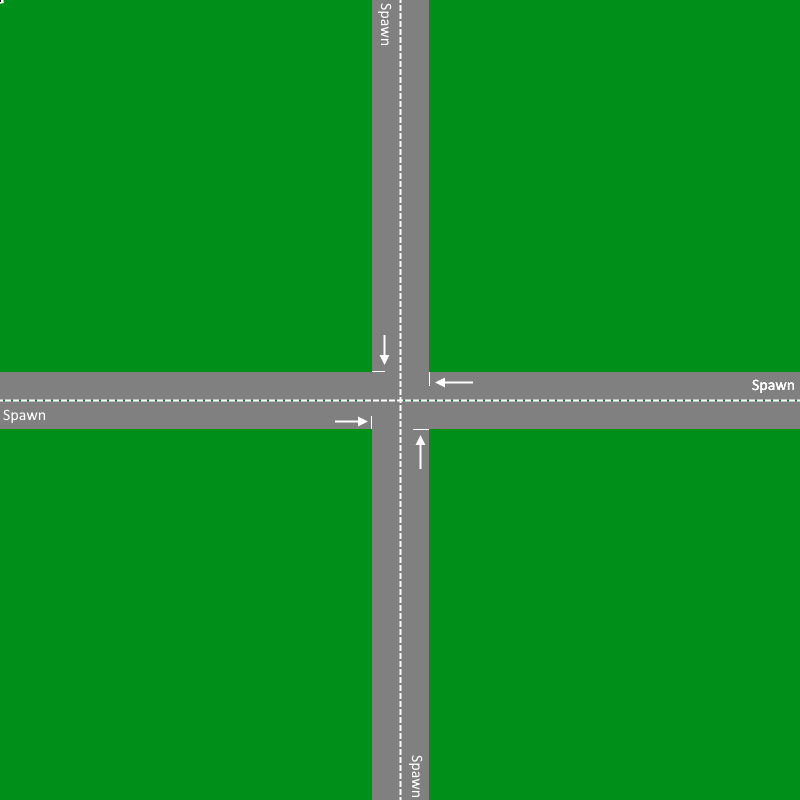
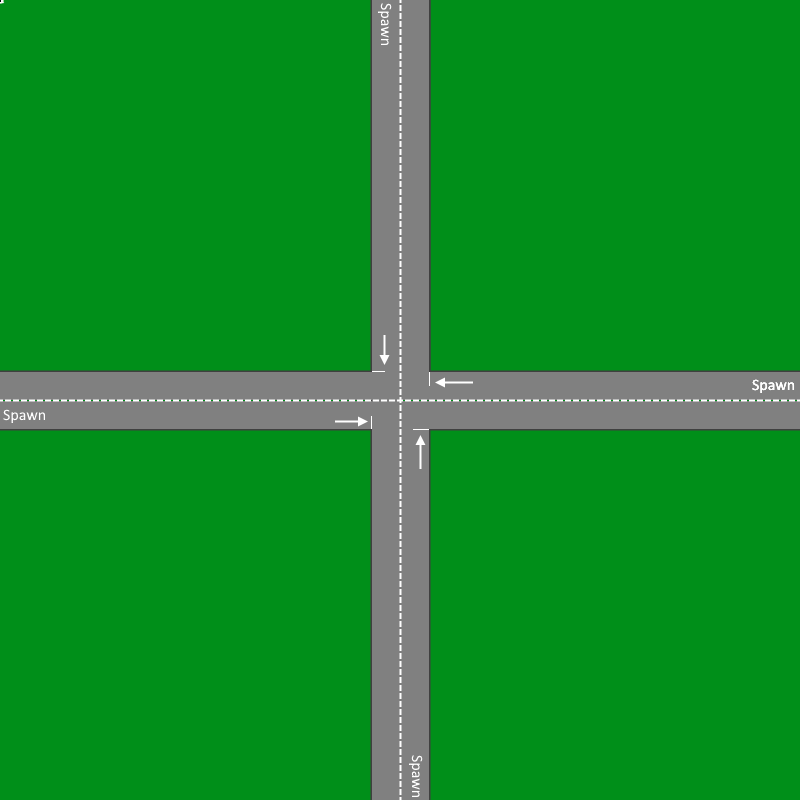
Обучаюсь дравать спрайты

diff --git a/Game.h b/Game.h
@@ -1,9 +1,10 @@
 #include "SFML/Graphics.hpp"
 #include <iostream>
 #include <string>
+#include <list>
 
-const int window_w = 1280;
-const int window_h = 720;
+const int window_w = 800;
+const int window_h = 800;
 const int framerame_limit = 60;
 
 void game();
@@ -14,20 +15,24 @@ private:
 	
 	class Cars;
 	class Traffic_Lights;
-
+	sf::Texture texture;
+	sf::Sprite sprite;
 public:
 	CrossRoad();
 	~CrossRoad();
-	void update() {
+	sf::Sprite update() {
+		texture.loadFromFile("img/Crossroad(1).png");
 
+		sprite.setTexture(texture);
 
-		
+		return sprite;
 	}
 
 };
 
 CrossRoad::CrossRoad()
 {
+	
 	
 
 }

diff --git a/Game.cpp b/Game.cpp
@@ -13,6 +13,7 @@ void game() {
 	while (window.isOpen())
 	{
 		light1.change_light();
+		//crossroad1.update();
 		sf::Event event;
 		while (window.pollEvent(event))
 		{
@@ -28,7 +29,7 @@ void game() {
 
 			window.clear(sf::Color::Black);
 
-			//window.draw();
+			window.draw(crossroad1.update());
 
 			window.display();
 		}
